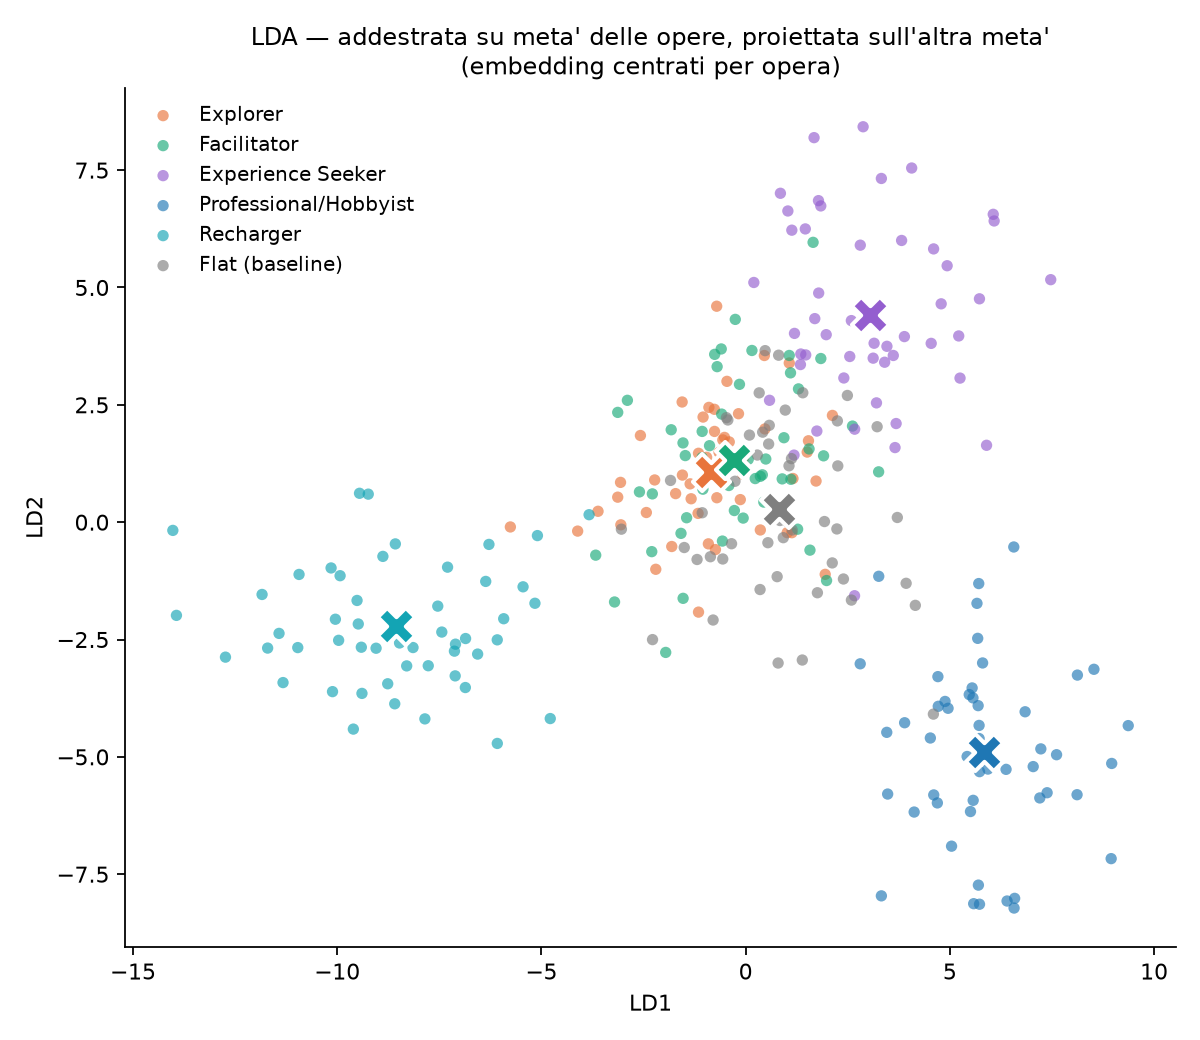
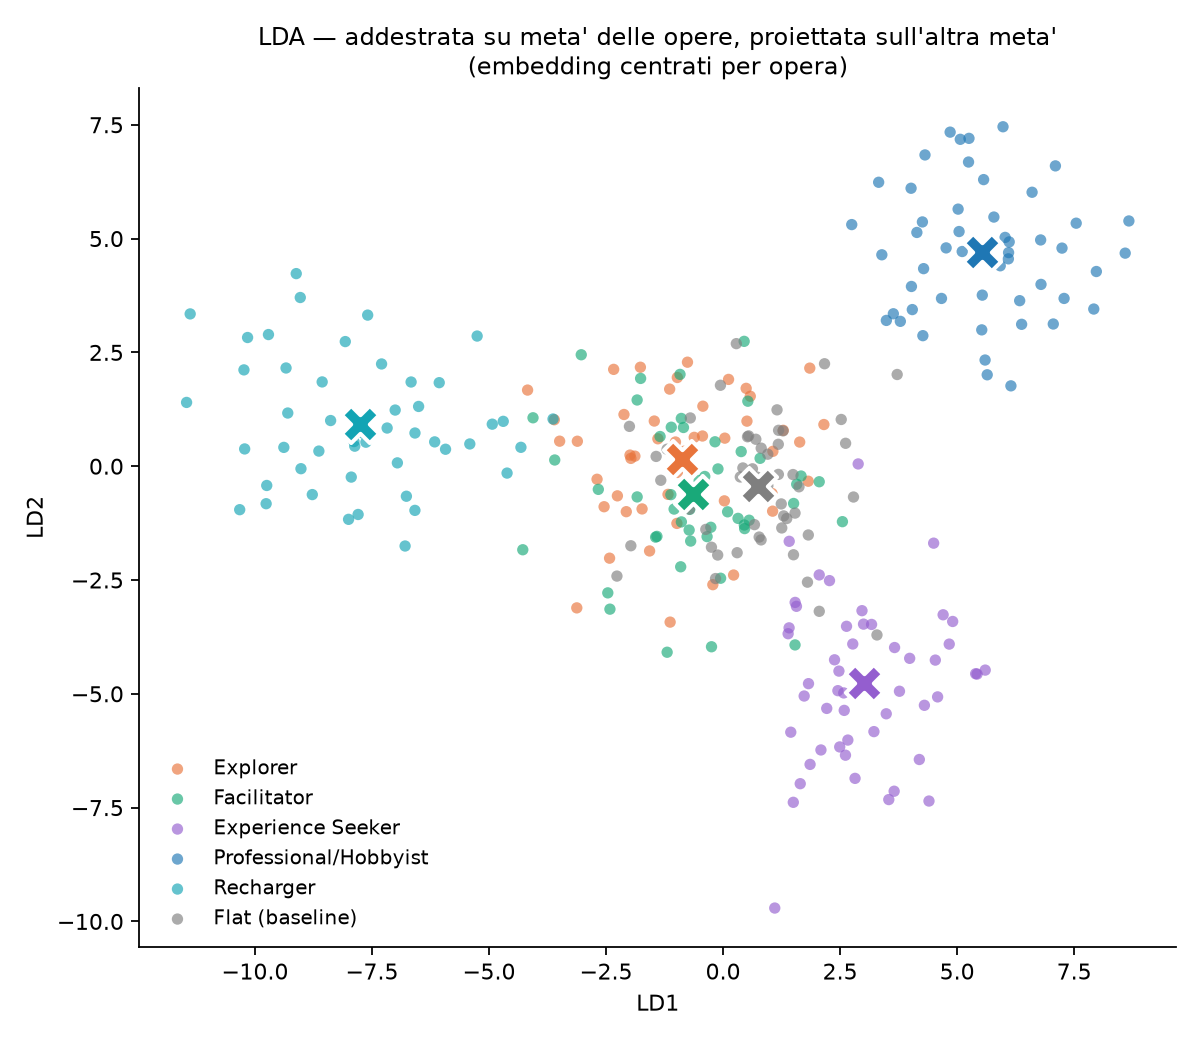
refactor(rq1): remove the within-artwork permutation test
The p-value was always at its floor and adds nothing to the probe evaluated on unseen artworks. Removed from analyze.py and length.py, from the JSON results and from both reports; the decision log records the last values and the mismatch with the test pre-registered in the continuous-profile spec. LDA figures change split because the test consumed the shared RNG.

diff --git a/src/museumbot/rq1_embeddings/analyze.py b/src/museumbot/rq1_embeddings/analyze.py
@@ -13,14 +13,13 @@ direzione la categoria sposta il testo rispetto alla descrizione neutra") ed e' 
 tutte le varianti dell'ablazione. Con la media, invece, i 6 v[c] sommano a zero per
 costruzione e i coseni fra categorie sono spinti verso -1/(C-1): un artefatto, non
 un'opposizione. La media resta per le procedure per singola opera basate sulle etichette
-(probe, permutazione, varianza), dove sottrarre un solo testo flat aggiungerebbe il suo rumore.
+(probe, varianza), dove sottrarre un solo testo flat aggiungerebbe il suo rumore.
 
 Metriche, in ordine di forza probatoria:
   1. probe lineare cross-validata, raggruppata per opera  -> lo shift e' preciso?     [media]
   2. consistenza split-half della direzione v[c]           -> proprieta' della categoria? [flat]
   3. distanza cross-validata fra condizioni                -> quali categorie sono vicine?
      (indipendente dal riferimento), coseni fra i v[c]       -> direzione degli effetti [flat]
-  4. test di permutazione entro opera                      -> p-value              [media]
   5. ablazione lessicale                                   -> registro o solo vocabolario?
 
 Tetto: se il corpus ha la replica `full_rep` (nel corpus principale e' `single_b`), il
@@ -199,21 +198,6 @@ def cosine_matrix(V):
     return Vn @ Vn.T
 
 
-# ------------------------------------------------------------ 4. test di permutazione
-
-
-def permutation_test(Xc, observed, n_perm=2000):
-    """Permuta le etichette di condizione ENTRO ogni opera: preserva l'effetto-opera."""
-    A, C, D = Xc.shape
-    null = np.zeros(n_perm)
-    for i in range(n_perm):
-        Xp = np.stack([Xc[a][RNG.permutation(C)] for a in range(A)])
-        v = Xp.mean(axis=0)
-        null[i] = np.linalg.norm(v, axis=1).mean()
-    p = (np.sum(null >= observed) + 1) / (n_perm + 1)
-    return p, null
-
-
 # ------------------------------------------------------------ 5. ablazione lessicale
 
 
@@ -382,7 +366,7 @@ def main() -> None:
     A, C, D = X.shape
     print(f"\n{A} opere x {C} condizioni x {D} dim  [{args.model}, corpus {args.corpus}]")
 
-    Xc = center(X, "mean")  # per probe, permutazione, varianza e figure di proiezione
+    Xc = center(X, "mean")  # per probe, varianza e figure di proiezione
     Vm = Xc.mean(axis=0)    # (C, D) scostamenti dal baricentro dell'opera
     V = steering(X)         # (5, D) steering vector rispetto al flat
 
@@ -467,21 +451,10 @@ def main() -> None:
         print("    tetto (cos fra steering vector di due run dello stesso prompt):")
         print("      " + "  ".join(f"{LABELS[c]} {ceil[i]:.3f}" for i, c in enumerate(FALK_CATEGORIES)))
 
-    # --- 4. permutazione (sugli scostamenti dalla media: tutte le condizioni scambiabili) ---
-    observed = np.linalg.norm(Vm, axis=1).mean()
-    p, null = permutation_test(Xc, observed)
-    out["permutation"] = {
-        "observed_mean_norm": float(observed),
-        "null_mean": float(null.mean()),
-        "p_value": float(p),
-    }
-    print(f"\n[4] permutazione entro opera: ||v|| osservato {observed:.4f} vs "
-          f"null {null.mean():.4f}  p = {p:.4g}")
-
-    # --- 5. lunghezza (confondente) ---
+    # --- 4. lunghezza (confondente) ---
     wl = meta.groupby("condition")["words"].agg(["mean", "std"])
     out["words"] = {LABELS[c]: float(wl.loc[c, "mean"]) for c in CONDITIONS if c in wl.index}
-    print("\n[5] lunghezza media per condizione (confondente da sorvegliare):")
+    print("\n[4] lunghezza media per condizione (confondente da sorvegliare):")
     for c in CONDITIONS:
         if c in wl.index:
             print(f"      {LABELS[c]:24} {wl.loc[c, 'mean']:.0f} +/- {wl.loc[c, 'std']:.0f}")

diff --git a/src/museumbot/rq1_embeddings/length.py b/src/museumbot/rq1_embeddings/length.py
@@ -9,8 +9,7 @@ ogni corpus (`main`, `local`) e modello di embedding:
   2. probe senza flat (5 classi);
   3. lunghezza tolta dagli embedding: per ogni dimensione si stima il coefficiente della
      lunghezza a parita' di opera e di categoria (effetti fissi di entrambe) e si
-     sottrae la componente lineare della lunghezza centrata per opera. Poi probe a 6 classi, test di
-     permutazione, coseno fra steering vector corretto e originale e, fra i due corpus,
+     sottrae la componente lineare della lunghezza centrata per opera. Poi probe a 6 classi, coseno fra steering vector corretto e originale e, fra i due corpus,
      rapporto del coseno sui tetti (`cross_generator`), con full e replica corretti.
 
 La correzione e' conservativa: toglie anche il segnale di categoria che e' davvero
@@ -26,7 +25,7 @@ import numpy as np
 from museumbot.common.config import ROOT
 from museumbot.common.prompts import CONDITIONS, FALK_CATEGORIES
 from museumbot.rq1_embeddings.analyze import (
-    FALK_IDX, center, load, permutation_test, probe, replicate_ceiling, row_cosines, steering,
+    FALK_IDX, center, load, probe, replicate_ceiling, row_cosines, steering,
 )
 from museumbot.rq1_embeddings.cross_generator import calibrate, cross_cosines
 
@@ -62,12 +61,6 @@ def length_probe(L) -> float:
     return float(probe(Lc[..., None])[0])
 
 
-def permutation_p(X, n_perm: int = 1000) -> float:
-    Xc = center(X, "mean")
-    observed = np.linalg.norm(Xc.mean(axis=0), axis=1).mean()
-    return float(permutation_test(Xc, observed, n_perm)[0])
-
-
 def corpus_report(X, L, Xr) -> dict:
     fmt = lambda v: {c: round(float(x), 3) for c, x in zip(FALK_CATEGORIES, v)}
     Xn, Xrn = X[:, FALK_IDX], Xr[:, FALK_IDX]
@@ -79,7 +72,6 @@ def corpus_report(X, L, Xr) -> dict:
         "probe6_corrected": round(float(probe(center(Xr, "mean"))[0]), 3),
         "probe5_no_flat": round(float(probe(Xn - Xn.mean(axis=1, keepdims=True))[0]), 3),
         "probe5_no_flat_corrected": round(float(probe(Xrn - Xrn.mean(axis=1, keepdims=True))[0]), 3),
-        "permutation_p_corrected": round(permutation_p(Xr), 4),
         "cos_steering_corrected_vs_original": fmt(row_cosines(steering(X), steering(Xr))),
         "steering_norm": fmt(np.linalg.norm(steering(X), axis=1)),
         "steering_norm_corrected": fmt(np.linalg.norm(steering(Xr), axis=1))}

diff --git a/docs/report-stato-progetto.md b/docs/report-stato-progetto.md
@@ -14,7 +14,7 @@ descrizione neutra?
 **Risposta breve.** Sì. Con 100 opere e 6 condizioni, generate su un provider fisso, un
 probe lineare distingue la condizione di generazione con accuracy del 95.3% (chance 16.7%),
 le direzioni di shift rispetto al testo neutro sono stabili su metà disgiunte del corpus
-(coseno 0.85–0.94) e il test di permutazione entro opera dà p = 0.0005. L'effetto è piccolo
+(coseno 0.85–0.94). L'effetto è piccolo
 in termini di varianza (6.5% contro il 73% spiegato dall'opera) ma è nitido, e le cinque
 categorie non collassano fra loro.
 
@@ -139,8 +139,8 @@ v[c] sommerebbero a zero per costruzione e i coseni fra categorie sarebbero spin
 −1/(C−1) = −0.2: un artefatto del riferimento, non un'opposizione fra categorie. Il flat è
 l'origine e non ha un vettore proprio.
 
-La **media** resta per le procedure che lavorano sul singolo testo con le etichette (probe,
-permutazione, scomposizione della varianza): lì tutte le condizioni devono essere
+La **media** resta per le procedure che lavorano sul singolo testo con le etichette (probe e
+scomposizione della varianza): lì tutte le condizioni devono essere
 scambiabili, e sottrarre un solo testo flat aggiungerebbe il suo rumore a ogni opera.
 
 Le metriche, in ordine di forza probatoria:
@@ -154,9 +154,7 @@ Le metriche, in ordine di forza probatoria:
 3. **geometria**: la **distanza quadrata cross-validata** fra condizioni dice quali sono
    vicine e quali lontane, e la distanza dal flat dice di quanto ciascuna categoria sposta
    il testo; i coseni fra i v[c] (riferimento flat) dicono in che direzione.
-4. **test di permutazione entro opera** (riferimento media): si permutano le etichette
-   *dentro* ogni opera, così l'effetto-opera è preservato e il null è onesto.
-5. **lunghezza e lessico**: confondenti da sorvegliare.
+4. **lunghezza e lessico**: confondenti da sorvegliare.
 
 **Rumore di generazione e tetto.** Due generazioni dello stesso prompt danno testi diversi,
 e quindi steering vector un po' diversi. Il **tetto** è il coseno fra gli steering vector
@@ -297,19 +295,14 @@ Experience Seeker–Recharger (−0.31). Professional/Hobbyist e Recharger sono 
 distante, ma le loro direzioni sono solo moderatamente opposte (−0.17): la distanza viene
 soprattutto dal fatto che sono i due shift più ampi.
 
-### 3.6 Permutazione
-
-Norma media osservata 0.188 contro null 0.040, **p = 0.0005** (2000 permutazioni entro opera).
-Identico con BGE-M3 (0.123 vs 0.031).
-
-### 3.7 Confondenti
+### 3.6 Confondenti
 
 **Lunghezza.** Professional/Hobbyist produce testi più lunghi (mediana 253 parole contro
 218–236 delle altre condizioni). Lo shift non è lunghezza (`rq1_embeddings/length.py`,
 `results/length_{qwen,bge-m3}.json`): la lunghezza da sola, centrata per opera, dà un probe
 a 6 classi di 0.28 (caso 0.17); togliendo dagli embedding la componente lineare della
 lunghezza, con il coefficiente stimato a parità di opera e di categoria, il probe resta
-0.95 (0.92), il test di permutazione p = 0.001 e ogni steering vector corretto ha coseno
+0.95 (0.92) e ogni steering vector corretto ha coseno
 0.99–1.00 (0.98–1.00) con l'originale. Il probe senza il flat, a 5 classi, vale 0.99 (0.97).
 
 **Lessico.** Le parole discriminative sono coerenti con i blocchi di prompt: Recharger

diff --git a/docs/report-gemma.md b/docs/report-gemma.md
@@ -1,6 +1,6 @@
 # Museumbot — parte 2: Gemma 4 31B e il profilo continuo
 
-*Ultimo aggiornamento: 13 ottobre 2026. Il report descrive solo lo stato attuale del codice e
+*Ultimo aggiornamento: 19 ottobre 2026. Il report descrive solo lo stato attuale del codice e
 dei risultati; le decisioni nel tempo sono in `docs/decisioni.md`, la spec dell'esperimento
 in `docs/plans/2026-10-06-profilo-continuo-design.md`. Numeri fra parentesi: embedding
 BGE-M3 (fuori: Qwen3).*
@@ -33,8 +33,8 @@ configurazione.
 Stessa batteria di analisi del report principale (§2) sui testi puri di Gemma, tutte e 6
 le condizioni (`analyze.py --corpus local`, `results/metrics_*_local.json`).
 
-**Lo shift c'è.** Probe a 6 classi 0.98 (0.975), caso 0.17; test di permutazione
-p = 0.0005 (il minimo con 2 000 permutazioni) in entrambi gli embedding. La condizione
+**Lo shift c'è.** Probe a 6 classi 0.98 (0.975), caso 0.17, valutato su opere mai viste
+(GroupKFold per opera). La condizione
 spiega il 12.5% (4.5%) della varianza.
 
 | Qwen3 (BGE-M3) | Explorer | Facilitator | Exp. Seeker | Prof./Hobbyist | Recharger |
@@ -42,8 +42,8 @@ spiega il 12.5% (4.5%) della varianza.
 | split-half | 0.95 (0.87) | 0.96 (0.86) | 0.94 (0.91) | 0.93 (0.89) | 0.98 (0.96) |
 | tetto (replica) | 0.99 (0.98) | 0.99 (0.97) | 0.99 (0.99) | 0.99 (0.99) | 1.00 (0.99) |
 
-Le soglie della spec fissate prima dei dati sono superate (probe con p < 0.01, split-half
-≥ 0.6 per ogni categoria).
+Le soglie della spec fissate prima dei dati sono superate: probe sopra il caso in entrambi
+gli embedding, split-half ≥ 0.6 per ogni categoria.
 
 ![PCA del corpus local sui dati centrati per opera, con i vettori di steering](../figures/pca_qwen_local.png)
 
@@ -52,8 +52,8 @@ Le soglie della spec fissate prima dei dati sono superate (probe con p < 0.01, s
 del flat". Lo shift però non è lunghezza (`rq1_embeddings/length.py`,
 `results/length_*.json`): la lunghezza da sola, centrata per opera, dà un probe a 6 classi
 di 0.35; togliendo dagli embedding la componente lineare della lunghezza, con il
-coefficiente stimato a parità di opera e di categoria, il probe resta 0.99 (0.95),
-p = 0.001, e ogni steering vector corretto ha coseno 0.97–0.99 (0.94–0.99) con
+coefficiente stimato a parità di opera e di categoria, il probe resta 0.99 (0.95)
+e ogni steering vector corretto ha coseno 0.97–0.99 (0.94–0.99) con
 l'originale. Senza il flat il probe a 5 classi vale 1.00 (0.99).
 
 **Separazione o formule?** Una separazione così netta può voler dire una personalizzazione

diff --git a/docs/decisioni.md b/docs/decisioni.md
@@ -421,3 +421,22 @@ della categoria e quella del flat: la stessa grandezza della distanza cross-vali
 gonfiata dal rumore di generazione (circa 0.0025 con Qwen3, fino al 9% per il Facilitator).
 **Effetto.** L'ordine delle categorie non cambia; i valori scendono di poco (Experience
 Seeker 0.21, Facilitator 0.17 con Qwen3) e si aggiungono quelli di BGE-M3.
+
+## 2026-10-19 — Test di permutazione rimosso
+
+**Decisione.** Il test di permutazione entro opera esce da `analyze.py` (sezione
+`permutation` di `results/metrics_*.json`) e da `length.py` (`permutation_p_corrected` di
+`results/length_*.json`), e dai due report.
+**Motivo.** Non aggiunge informazione al probe lineare valutato su opere mai viste
+(GroupKFold per opera): con accuracy 0.95–0.98 contro un caso di 0.17 il p era sempre al
+minimo possibile. Inoltre il test implementato non era quello fissato nella spec del
+profilo continuo ("probe sopra il caso con p < 0.01 al test di permutazione"): permutava le
+etichette entro opera e confrontava la norma media degli scostamenti delle condizioni, non
+l'accuracy del probe. Prima della rimozione dava p = 0.0005 (il minimo con 2 000
+permutazioni) su `main` e `local` con entrambi gli embedding, e p = 0.001 (minimo con 1 000)
+dopo la correzione per la lunghezza, sugli stessi corpus ed embedding.
+**Effetto.** Nessun altro numero cambia. Il criterio della spec sul probe si legge come
+"probe sopra il caso, valutato fuori dal fold per opera". Le figure LDA cambiano la metà di
+opere usata per l'addestramento, perché il test consumava il generatore casuale condiviso;
+la lettura delle figure non cambia. Il report di stato perde la sezione §3.6, i confondenti
+diventano §3.6.
